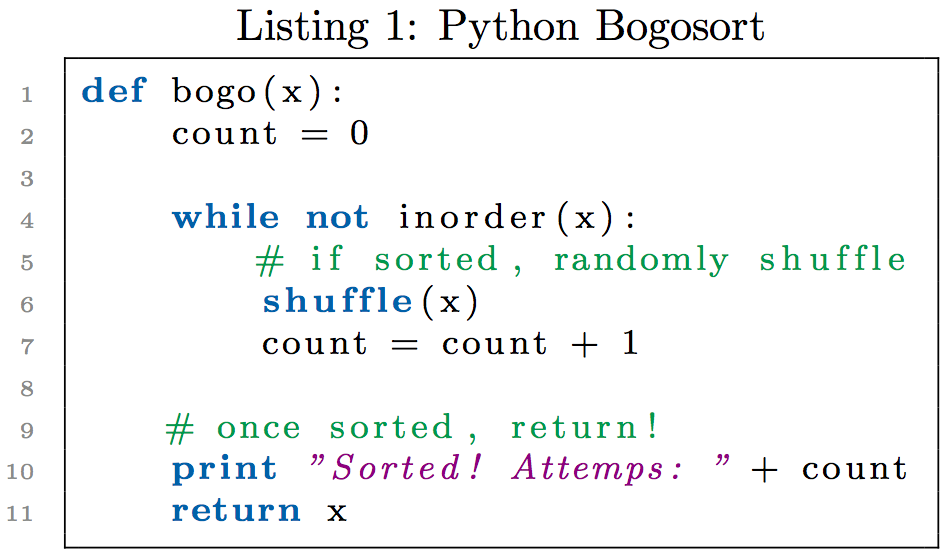
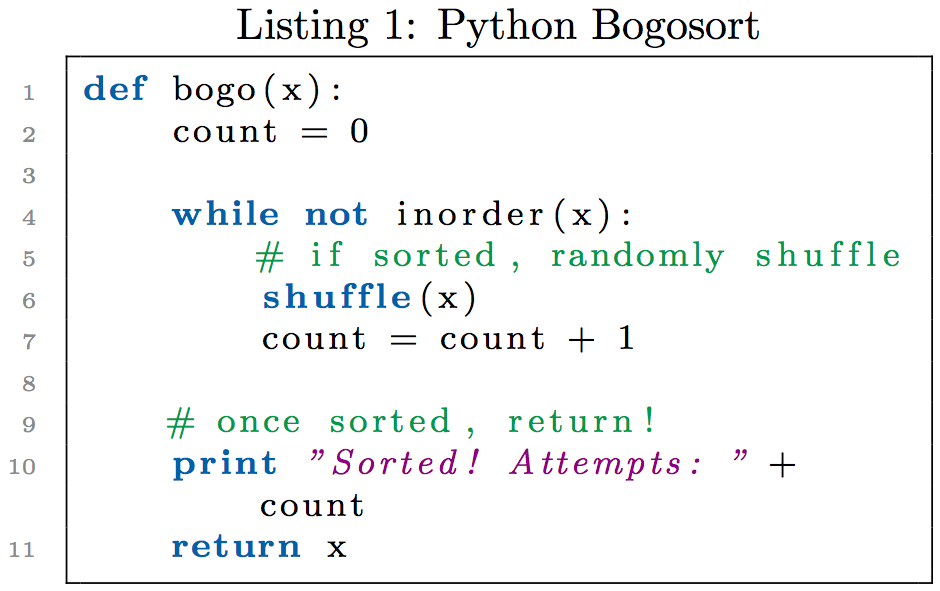
fix spelling error (attemps->attempts)

diff --git a/Examples/bogo.py b/Examples/bogo.py
@@ -7,5 +7,5 @@ def bogo(x):
         count = count + 1
 
     # once sorted, return!
-    print "Sorted! Attemps: " + count
+    print "Sorted! Attempts: " + count
     return x
